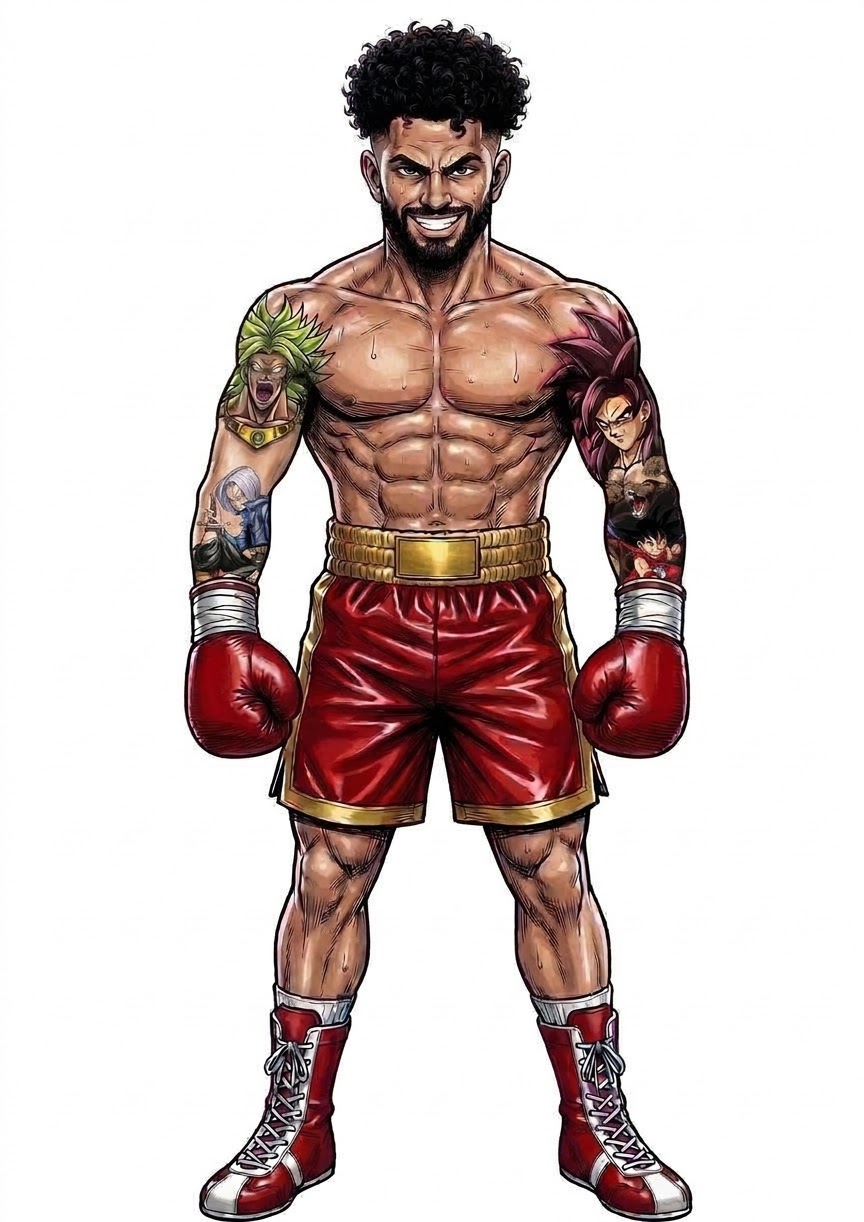
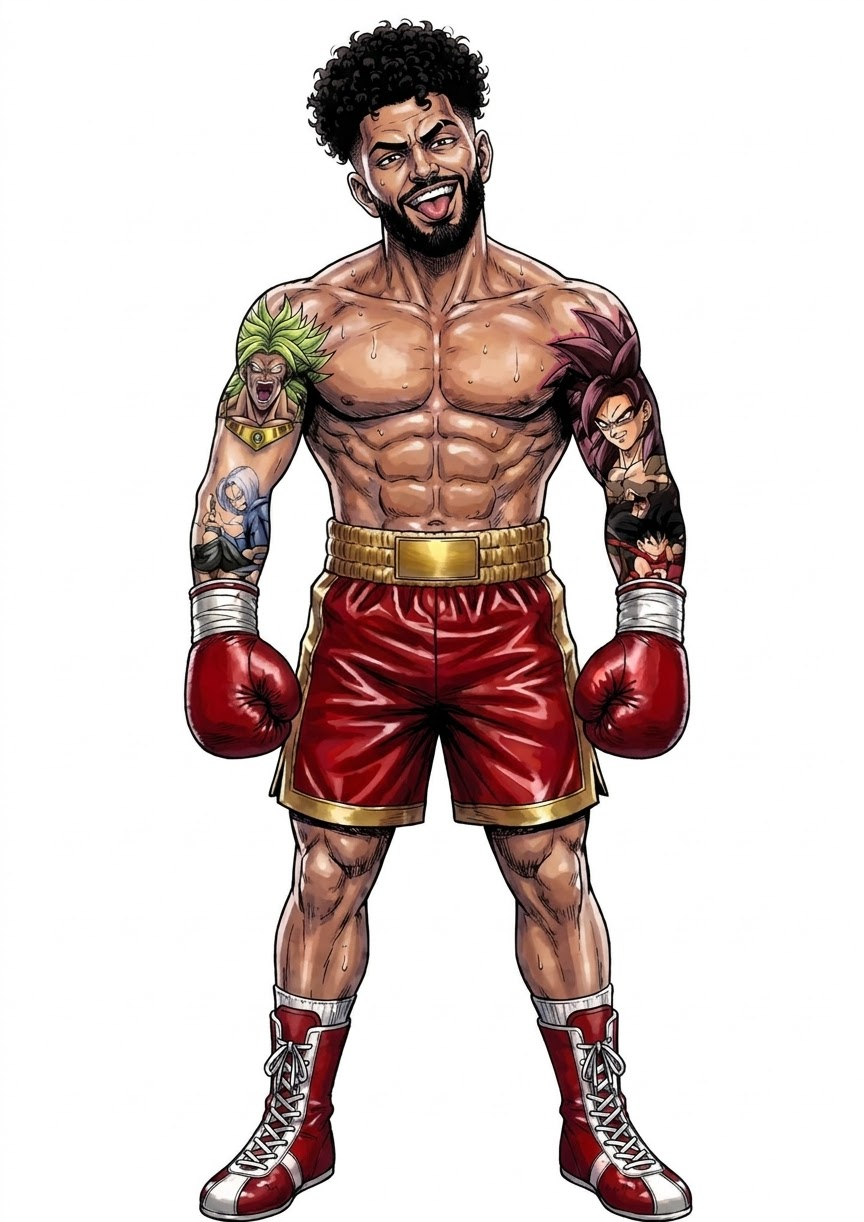
Greg : 6 nouvelles poses branchées (garde basse, provocation, crochet refait, chute K.O., victoire, il arme son coup) + nouveau prompt pour la relève
Claude-Session: https://claude.ai/code/session_01Nh56uCfCYFQpr6HwXFtrQ7

Changed region(s): [[0.2188, 0.0, 0.8125, 1.0]]

diff --git a/src/bosses/greg/reglages.js b/src/bosses/greg/reglages.js
@@ -48,18 +48,18 @@ export const REGLAGES = {
       // Greg v2 : toutes posées sur leurs pieds (solY), même taille ; origine x = la tête
       entier:     { cle: 'greg2_entier',      origine: [0.510, 1], taille: 0.78, pied: true },
       gardePied:  { cle: 'greg2_garde_haute', origine: [0.505, 1], taille: 0.78, pied: true },
-      gardeBasse: { cle: 'greg2_entier',      origine: [0.510, 1], taille: 0.78, pied: true },   // provisoire : image « greg_garde_basse » à générer (prompt n°1)
-      nargue:     { cle: 'greg2_nargue',      origine: [0.494, 1], taille: 0.78, pied: true },
+      gardeBasse: { cle: 'greg2_garde_basse', origine: [0.483, 1], taille: 0.78, pied: true },
+      nargue:     { cle: 'greg2_nargue',      origine: [0.418, 1], taille: 0.78, pied: true },   // langue tirée, bras ballants
       tapeGants:  { cle: 'greg2_tape_gants',  origine: [0.496, 1], taille: 0.78, pied: true },   // avant le SMASH
       jab:        { cle: 'greg2_jab',         origine: [0.427, 1], taille: 0.78, pied: true, cote: 'd' },
-      crochet:    { cle: 'greg2_jab',         origine: [0.427, 1], taille: 0.78, pied: true, cote: 'd' },   // provisoire : l'image crochet v2 est à refaire
+      crochet:    { cle: 'greg2_crochet',     origine: [0.582, 1], taille: 0.78, pied: true, cote: 'g' },
+      arme:       { cle: 'greg2_arme',        origine: [0.481, 1], taille: 0.78, pied: true, cote: 'd' },   // il arme son coup au visage
       corpsPied:  { cle: 'greg2_corps',       origine: [0.526, 1], taille: 0.78, pied: true, cote: 'g' },
       smash:      { cle: 'greg2_smash',       origine: [0.636, 1], taille: 0.78, pied: true },
       touche:     { cle: 'greg2_touche',      origine: [0.616, 1], taille: 0.78, pied: true },
       etourdi:    { cle: 'greg2_etourdi',     origine: [0.492, 1], taille: 0.78, pied: true },
-      // en attendant leurs images v2 : la chute utilise "étourdi", la victoire utilise "nargue"
-      koDebout:   { cle: 'greg2_etourdi',     origine: [0.492, 1], taille: 0.78, pied: true },
-      victoire:   { cle: 'greg2_nargue',      origine: [0.494, 1], taille: 0.78, pied: true },
+      koDebout:   { cle: 'greg2_ko_debout',   origine: [0.492, 1], taille: 0.78, pied: true },   // yeux blancs, il bascule
+      victoire:   { cle: 'greg2_victoire',    origine: [0.501, 1], taille: 0.78, pied: true },
     },
     dureeChute: 0.9,   // K.O. : durée de la chute sur le ring avant la case manga
     debutElan: 0.2,    // à partir de ce moment de la préparation, on voit le coup partir

diff --git a/src/bosses/greg/manifeste.js b/src/bosses/greg/manifeste.js
@@ -26,7 +26,7 @@ export const MANIFESTE = {
     // Une image par pose. Le bas du corps touche le bas de la case.
     greg_ring:  { fichier: null, largeur: 960, hauteur: 540, images: 1, vitesse: 1, provisoire: { forme: 'ring', pixel: 2 } },
     // Greg v2 (nouvelle tête + tatouages, assets_inbox/greg_v2, détourées par outils/greg/preparer_v2.py)
-    // (audit nov. 2026 : les anciennes images v1 du combat ne sont plus chargées ni gardées ; le crochet v2 raté non plus)
+    // (audit nov. 2026 : les anciennes images v1 du combat ne sont plus chargées ni gardées)
     greg2_garde_haute: { fichier: 'sprites/greg/greg2_garde_haute.png', largeur: 402, hauteur: 560, images: 1, vitesse: 1 },
     greg2_nargue: { fichier: 'sprites/greg/greg2_nargue.png', largeur: 237, hauteur: 560, images: 1, vitesse: 1 },
     greg2_entier: { fichier: 'sprites/greg/greg2_entier.png', largeur: 398, hauteur: 560, images: 1, vitesse: 1 },
@@ -35,6 +35,11 @@ export const MANIFESTE = {
     greg2_smash: { fichier: 'sprites/greg/greg2_smash.png', largeur: 331, hauteur: 561, images: 1, vitesse: 1 },
     greg2_touche: { fichier: 'sprites/greg/greg2_touche.png', largeur: 360, hauteur: 545, images: 1, vitesse: 1 },
     greg2_etourdi: { fichier: 'sprites/greg/greg2_etourdi.png', largeur: 237, hauteur: 560, images: 1, vitesse: 1 },
+    greg2_crochet: { fichier: 'sprites/greg/greg2_crochet.png', largeur: 287, hauteur: 560, images: 1, vitesse: 1 },
+    greg2_garde_basse: { fichier: 'sprites/greg/greg2_garde_basse.png', largeur: 231, hauteur: 560, images: 1, vitesse: 1 },
+    greg2_ko_debout: { fichier: 'sprites/greg/greg2_ko_debout.png', largeur: 237, hauteur: 560, images: 1, vitesse: 1 },
+    greg2_victoire: { fichier: 'sprites/greg/greg2_victoire.png', largeur: 318, hauteur: 559, images: 1, vitesse: 1 },
+    greg2_arme: { fichier: 'sprites/greg/greg2_arme.png', largeur: 318, hauteur: 556, images: 1, vitesse: 1 },
     greg2_tape_gants: { fichier: 'sprites/greg/greg2_tape_gants.png', largeur: 258, hauteur: 560, images: 1, vitesse: 1 },
     greg_ko:          { fichier: 'sprites/greg/greg_ko.png', largeur: 341, hauteur: 410, images: 1, vitesse: 1 },
     greg_gant:     { fichier: null, largeur: 220, hauteur: 220, images: 1, vitesse: 1,

diff --git a/src/bosses/greg/GregCombat.js b/src/bosses/greg/GregCombat.js
@@ -1460,7 +1460,7 @@ export class GregCombat extends BossScene {
       if (avance < debut) {             // il arme son coup
         if (c === 'smash') { dy = 34; echelle = 0.93; angle = -3; if (existe('tapeGants')) { pose = 'tapeGants'; dy = 0; angle = 0; } }
         else if (c === 'corps') { dy = 46; echelle = 0.9; dx = sens * 20; angle = sens * 4; }   // il plonge bas
-        else { dx = sens * 34; angle = sens * 6; echelle = 0.96; }
+        else { dx = sens * 34; angle = sens * 6; echelle = 0.96; if (existe('arme')) { pose = 'arme'; dx = sens * 14; angle = 0; } }
       } else {                          // le coup part : l'image du coup grossit vers toi, du bon côté
         const elan = (avance - debut) / (1 - debut);
         pose = imageCoup(c); rapide = true;

diff --git a/outils/greg/preparer_v2.py b/outils/greg/preparer_v2.py
@@ -6,7 +6,8 @@ from PIL import Image
 from scipy import ndimage
 
 SRC, DST = 'assets_inbox/greg_v2', 'assets/sprites/greg'
-POSES = ['garde_haute', 'nargue', 'entier', 'jab', 'crochet', 'corps', 'smash', 'touche', 'etourdi', 'tape_gants']
+POSES = ['garde_haute', 'nargue', 'entier', 'jab', 'crochet', 'corps', 'smash', 'touche', 'etourdi', 'tape_gants',
+         'garde_basse', 'ko_debout', 'victoire', 'arme']   # nov. 2026
 HAUTEUR_ENTIER = 560   # hauteur finale de la pose "entier" (les autres suivent le même facteur)
 
 def detourer(im):

diff --git a/propositions/greg_prompts_images.md b/propositions/greg_prompts_images.md
@@ -1,5 +1,9 @@
 # Greg — prompts d'images (proposés par l'audit fun / animation)
 
+> **Reçues et branchées (nov. 2026)** : greg_garde_basse, greg_nargue (nouvelle), greg_crochet (refait), greg_ko_debout,
+> greg_victoire, greg_arme. **Restent** : greg_releve (nouveau prompt plus simple en fin de fichier), poses du héros,
+> portrait / visage / case K.O. / trophée / arbitre.
+
 Pour chaque image : JOINDRE `assets/sprites/greg/heros_garde.png` (pour garder le même boxeur et le même style).
 Fond blanc uni (il sera retiré ensuite), personnage entier visible, rien qui touche les bords.
 Ranger les fichiers dans `assets_inbox/` ; ils seront détourés puis mis dans `assets/sprites/greg/`.
@@ -323,3 +327,12 @@ sideways, right glove launching a hook upward, left glove tucked at the chin, sp
 the weave, explosive power. Plain pure white background, full figure, nothing touching the edges, no text.
 ```
 
+
+
+## greg_releve.jpg — NOUVEAU PROMPT (le 1er ne marchait pas : « à genoux » + corps entier est trop dur)
+Joindre `assets_inbox/greg_reference_face.jpg`, coller le Prompt commun de l'Étape 2, puis :
+```
+POSE: standing up again after a knockdown, still standing on both feet but bent forward, both gloves pressed on his
+knees to push himself up, head raised toward the viewer, one eye half closed, sweat dripping, gritted teeth, angry and
+determined. Both feet flat on the ground. The belt has a plain gold buckle with NO text.
+```

diff --git a/NOTES.md b/NOTES.md
@@ -55,7 +55,11 @@
   aussi juste après avoir encaissé ; « X HITS » (+10 % par coup) ; esquive PARFAITE (≤ 0,12 s, flash bleu, +5 esprit) ;
   moment secret visible (« hé hé... », sifflement, éclat sur le ventre, conseil du coach au round 1) ; « ! » violet au
   milieu ; SMASH une fois au round 2 ; enchaînements au hasard aux rounds 2-3 (+ petites hésitations).
-- RESTE : images (prompts dans `propositions/greg_prompts_images.md`, section « AUDIT NOVEMBRE 2026 »).
+- Images reçues et branchées : `greg2_garde_basse`, `greg2_nargue` (nouvelle, langue tirée), `greg2_crochet` (refait),
+  `greg2_ko_debout` (chute), `greg2_victoire`, `greg2_arme` (il arme ses coups au visage). Anciennes versions gardées
+  dans `assets_inbox/greg_v2/` (`_ancien`, `_rate`). Outil : `python3 outils/greg/preparer_v2.py`.
+- RESTE : greg_releve (nouveau prompt), poses du héros, portrait / visage / case K.O. / trophée / arbitre
+  (prompts dans `propositions/greg_prompts_images.md`).
 
 ## AUDIT GLOBAL V18 (6 boss, version économe) : `propositions/audit_global.md`
 - 0 plantage (14 lancements + « rejouer »), 0 erreur aux outils. Petits défauts : B1 clic souris inactif sur l'écran de fin
